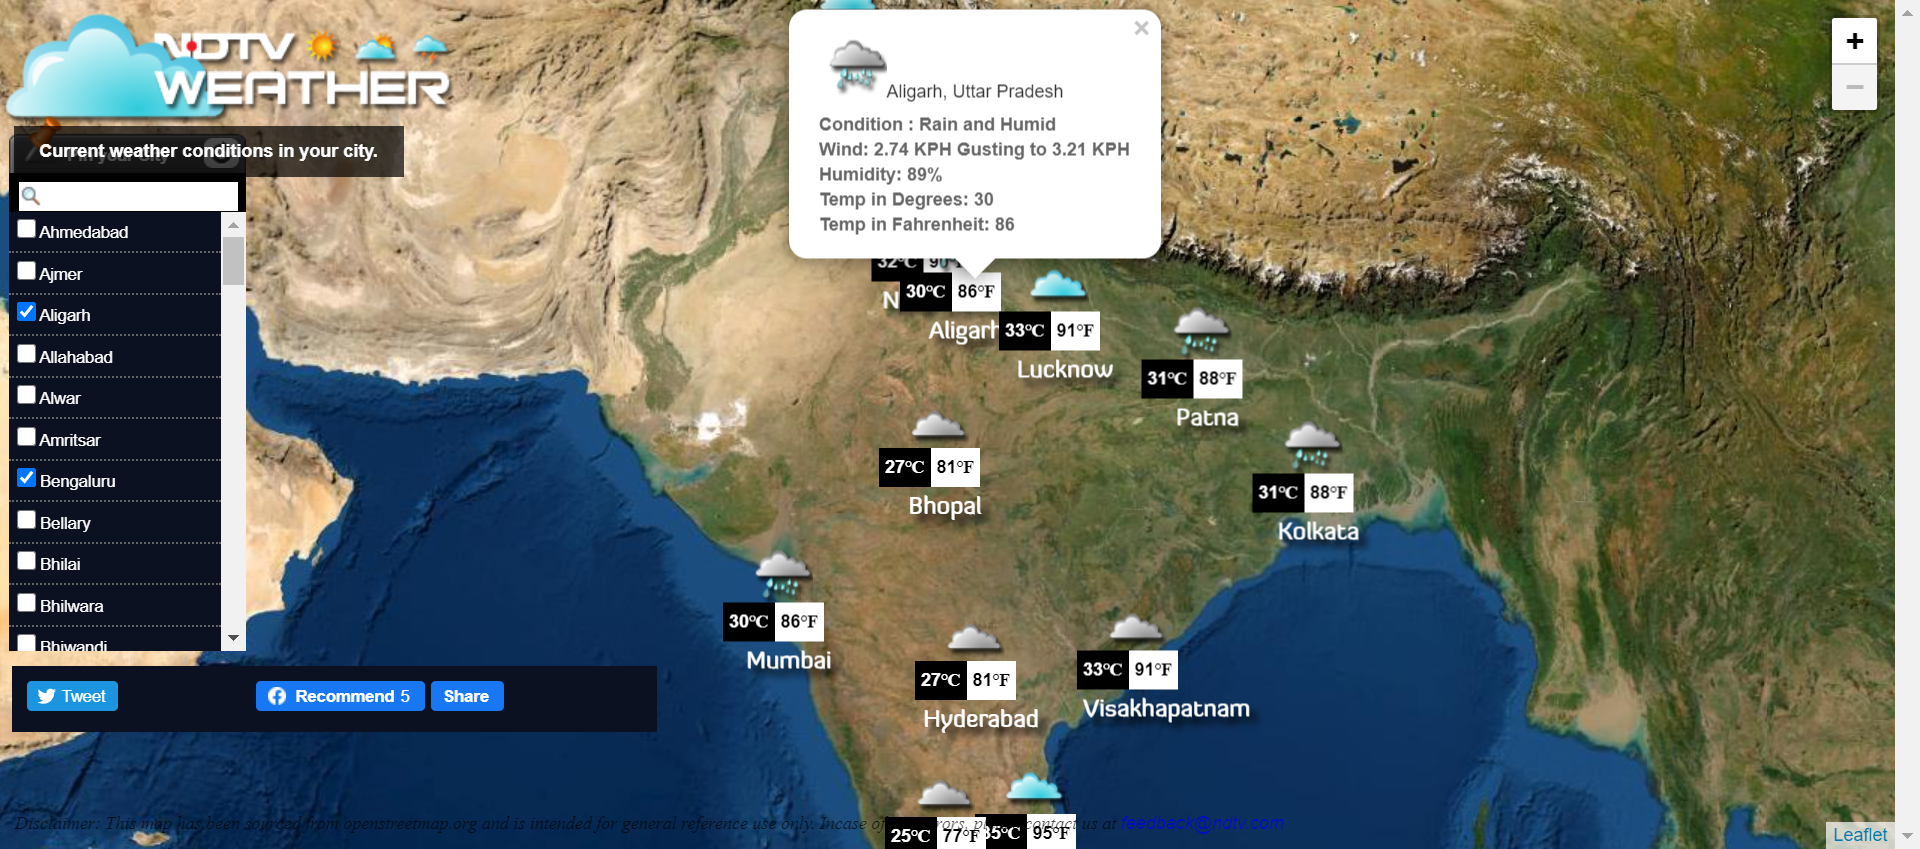
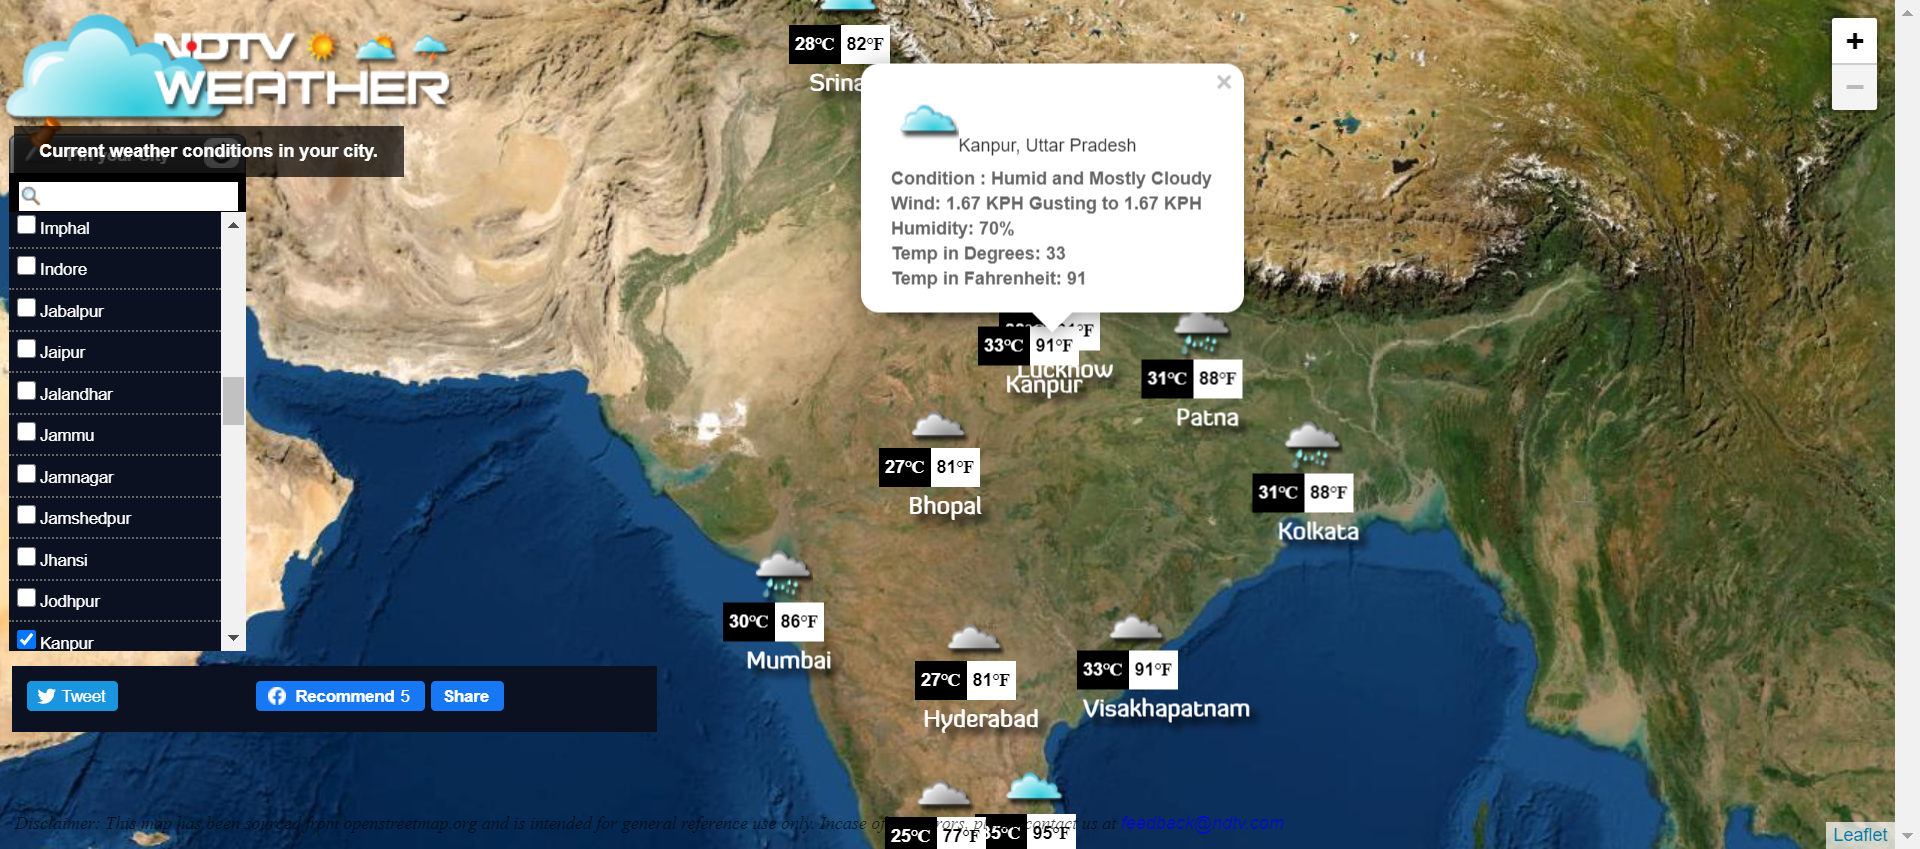
modifying locator strategy

diff --git a/TestAssignment/test_assignment.py b/TestAssignment/test_assignment.py
@@ -4,6 +4,8 @@ import re
 import statistics
 import time
 import objectpath
+import pandas as pd
+import pytest
 
 import requests
 from selenium import webdriver
@@ -16,6 +18,12 @@ def setup():
     driver.maximize_window()
     driver.implicitly_wait(10)
 
+def dp_pandas():
+    xlpath = "C:/Users/ronit/Desktop/GitHub/testvagrant-test/TestAssignment/cityNames.xlsx"
+    df = pd.read_excel(xlpath, 'Sheet1')
+
+    lol = df.values.tolist()
+    return lol
 
 def teardown():
     print('Inside teardown method')
@@ -54,10 +62,17 @@ def test_validate_Phase1_UI():
 
 
 def test_validate_Phase2_API():
+  APIurl = 'http://api.openweathermap.org/data/2.5/weather?q='
+  input1 = 'Kanpur'
+  appID= "&appid=7fe67bf08c80ded756e598d6f8fedaea"
 
-  driver.get("http://api.openweathermap.org/data/2.5/weather?q=Kanpur&appid=7fe67bf08c80ded756e598d6f8fedaea")
+  driver.get(APIurl + input1+appID)
+
+  time.sleep(3)
   resp = requests.get('http://api.openweathermap.org/data/2.5/weather?q=Kanpur&appid=7fe67bf08c80ded756e598d6f8fedaea')
   assert  resp.status_code == 200
+
+
   # assert resp.json()["name"] == 'Kanpur'
   # tempe = resp.json()["temp"]
   # print(tempe)
@@ -71,14 +86,14 @@ def test_validate_Phase2_API():
   # temp_dict = "main" in data
   # print(temp_dict)
 
-  data = json.loads(resp.text)
-
-  jsonn_tree = objectpath.Tree(data['main'])
-  result_tuple = tuple(jsonn_tree.execute('$..temp'))
-  print(result_tuple)
-  ''.join(result_tuple)
-  res = math.trunc(result_tuple)
-  print(res)
+  # data = json.loads(resp.text)
+  #
+  # jsonn_tree = objectpath.Tree(data['main'])
+  # result_tuple = tuple(jsonn_tree.execute('$..temp'))
+  # print(result_tuple)
+  # ''.join(result_tuple)
+  # res = math.trunc(result_tuple)
+  # print(res)
 
 
 def test_compare_API_UI_weather():
@@ -139,6 +154,83 @@ def test_compare_API_UI_weather():
     #     print("The test is pass")
     # else:
     #     print("The test failed")
+
+@pytest.mark.parametrize('inputdata', dp_pandas())
+def test_testing(inputdata):
+   input1 =inputdata[0]
+   input2 = inputdata[1]
+   # print(input1)
+   driver.get("http://api.openweathermap.org/data/2.5/weather?q=Kanpur&appid=7fe67bf08c80ded756e598d6f8fedaea")
+   resp = requests.get(
+       'http://api.openweathermap.org/data/2.5/weather?q=Kanpur&appid=7fe67bf08c80ded756e598d6f8fedaea')
+   assert resp.status_code == 200
+   json_data = json.loads(resp.text)
+
+
+
+   res1 = json_data['main']['temp']
+   trun = math.trunc(res1)
+
+   print(trun)
+
+
+   driver.get("https://social.ndtv.com/static/Weather/report/")
+   time.sleep(2)
+   cities = driver.find_elements_by_xpath("//*[@id='messages']/div/label")
+   print(len(cities))
+
+    # for i in cities:
+    #     name = i.text
+    #     print(name)
+   for i in cities:
+       if i.text == input1:
+           i.click()
+           print("clicked")
+           time.sleep(4)
+
+   onMap = driver.find_elements_by_xpath("//*[@class='cityText']")
+   expCity = input2
+   for cities in onMap:
+       name = cities.text
+       print(name)
+
+       if (expCity in name):
+
+           cities.click()
+           print('hello. on map found')
+           #tempUI = driver.find_element_by_xpath("//*[@class='cityText']//preceding::span[@class='tempRedText'] ").text
+           locator = "//div[@title = '"+expCity+"']/div/span[1]"
+           tempUI = driver.find_element_by_xpath(locator).text
+           print("this is temperature from UI" +tempUI)
+           driver.save_screenshot("cityFound.png")
+           time.sleep(3)
+
+   time.sleep(3)
+   #tempUI = driver.find_element_by_xpath("//*[@id='map_canvas']/div[1]/div[4]/div[12]/div/div[1]/span[1]").text
+   print(tempUI)
+
+   result = re.sub(r"[℃]", "", tempUI, flags=re.I)
+   tempInKelvin = int(result) + 273.15
+   print(tempInKelvin)
+
+   List = []
+   List.append(tempInKelvin)
+   List.append(trun)
+
+   print(List)
+
+   variance = statistics.variance(List)
+
+   print("The variance of list is" + str(variance))
+   print(type(variance))
+
+   assert int(variance) < 2.0
+
+
+
+
+
+
 
 
 

diff --git a/TestAssignment/test_testing.py b/TestAssignment/test_testing.py
@@ -1,6 +1,12 @@
 import time
 import pandas as pd
 import pytest
+import json
+import math
+import re
+import statistics
+import time
+import requests
 
 from selenium import webdriver
 
@@ -28,6 +34,21 @@ def test_testing(inputdata):
    input1 =inputdata[0]
    input2 = inputdata[1]
    # print(input1)
+   APIurl = 'http://api.openweathermap.org/data/2.5/weather?q='
+   apiCityName = input2
+   appID = "&appid=7fe67bf08c80ded756e598d6f8fedaea"
+   driver.get(APIurl + apiCityName + appID)
+
+   resp = driver.get(APIurl + apiCityName + appID)
+   assert resp.status_code == 200
+   json_data = json.loads(resp.text)
+
+   res1 = json_data['main']['temp']
+   trun = math.trunc(res1)
+
+   print(trun)
+
+
    driver.get("https://social.ndtv.com/static/Weather/report/")
    time.sleep(2)
    cities = driver.find_elements_by_xpath("//*[@id='messages']/div/label")
@@ -42,24 +63,6 @@ def test_testing(inputdata):
            print("clicked")
            time.sleep(4)
 
-   # onMap = driver.find_elements_by_xpath("//div[@class='cityText']")
-   # expCity = input1
-
-   # for ci in onMap:
-   #     name = ci.text
-   #     if (name in expCity):
-   #         ci.click()
-   #         print("onMap clicked")
-   #         time.sleep(3)
-    # for lst in cities:
-    #     name = lst.text
-    #     print(name)
-    #cities = driver.find_elements_by_xpath("//div[@class='messages']//div/label/input")
-    # time.sleep(3)
-    # city = driver.find_element_by_id("input1").click()
-    # time.sleep(3)
-    #
-    #
    onMap = driver.find_elements_by_xpath("//*[@class='cityText']")
    expCity = input2
    for cities in onMap:
@@ -69,19 +72,61 @@ def test_testing(inputdata):
        if (expCity in name):
            cities.click()
            print('hello. on map found')
+           tempUI = driver.find_element_by_xpath("//*[@class='cityText']//preceding::span[@class='tempRedText']")
            driver.save_screenshot("cityFound.png")
            time.sleep(3)
 
+   time.sleep(3)
+   #tempUI = driver.find_element_by_xpath("//*[@id='map_canvas']/div[1]/div[4]/div[12]/div/div[1]/span[1]").text
+   print(tempUI)
 
-    # if(expCity in name):
-    #     print('City found')
-    #     driver.find_element_by_xpath("//div[contains(text(),'input1')]").click()
-    #     driver.save_screenshot('cityFound.png')
-    #    else:
-    #        print('Not Found')
-time.sleep(3)
-    # for lst in cities:
+   result = re.sub(r"[℃]", "", tempUI, flags=re.I)
+   tempInKelvin = int(result) + 273.15
+   print(tempInKelvin)
+
+   List = []
+   List.append(tempInKelvin)
+   List.append(trun)
+
+   print(List)
+
+   variance = statistics.variance(List)
+
+   print("The variance of list is" + str(variance))
+   print(type(variance))
+
+   assert int(variance) < 2.0
+
+
+
+
+
+
+# onMap = driver.find_elements_by_xpath("//div[@class='cityText']")
+# expCity = input1
+
+# for ci in onMap:
+#     name = ci.text
+#     if (name in expCity):
+#         ci.click()
+#         print("onMap clicked")
+#         time.sleep(3)
+# for lst in cities:
+#     name = lst.text
+#     print(name)
+# cities = driver.find_elements_by_xpath("//div[@class='messages']//div/label/input")
+# time.sleep(3)
+# city = driver.find_element_by_id("input1").click()
+# time.sleep(3)
+#
+#
+
+# if(expCity in name):
+#     print('City found')
+#     driver.find_element_by_xpath("//div[contains(text(),'input1')]").click()
+#     driver.save_screenshot('cityFound.png')
+#    else:
+#        print('Not Found')
+# for lst in cities:
     #     name = lst.get_attribute('innerHTML')
     #     print(name)
-
-
